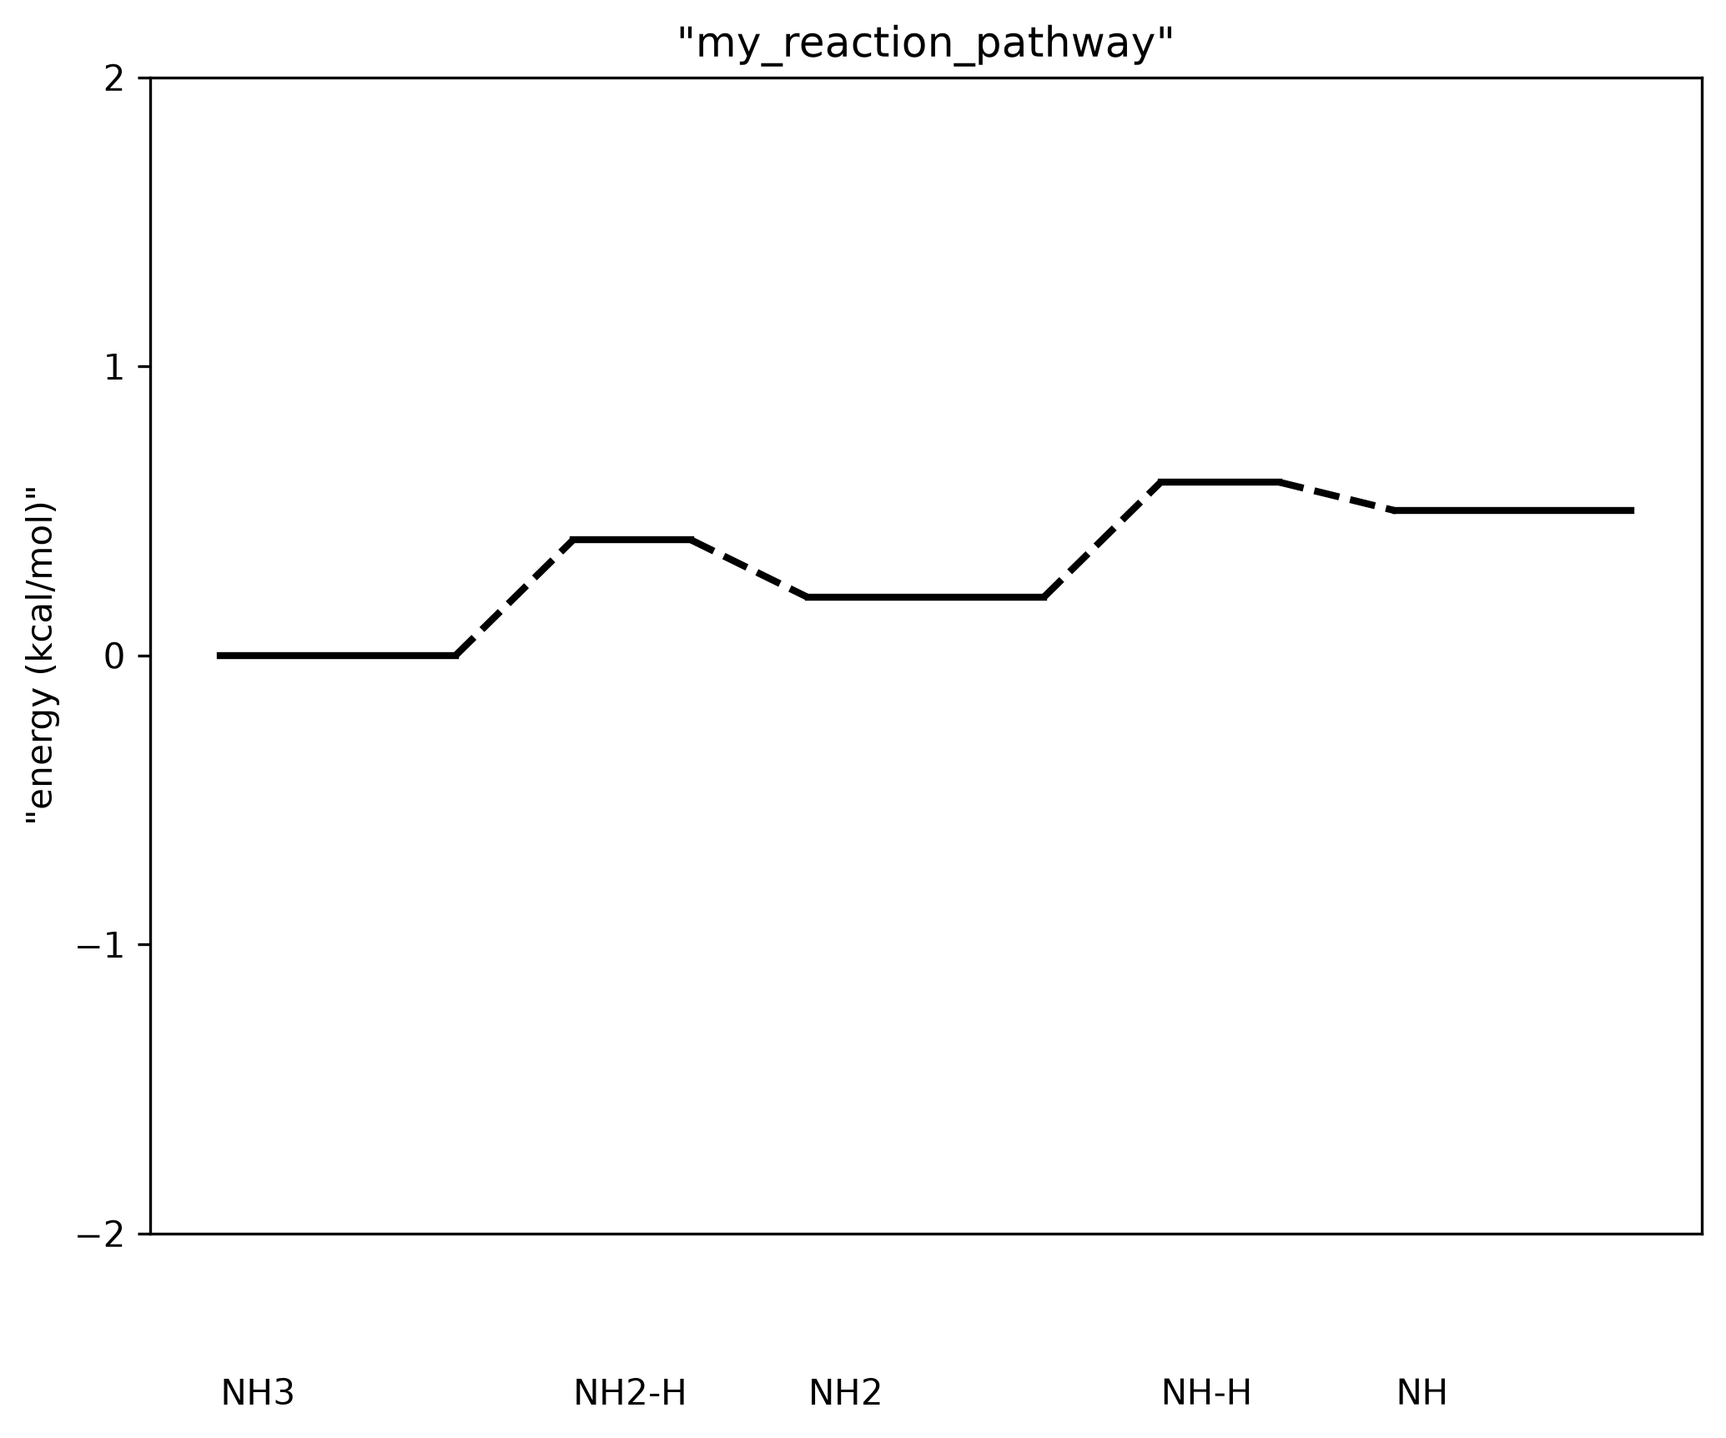
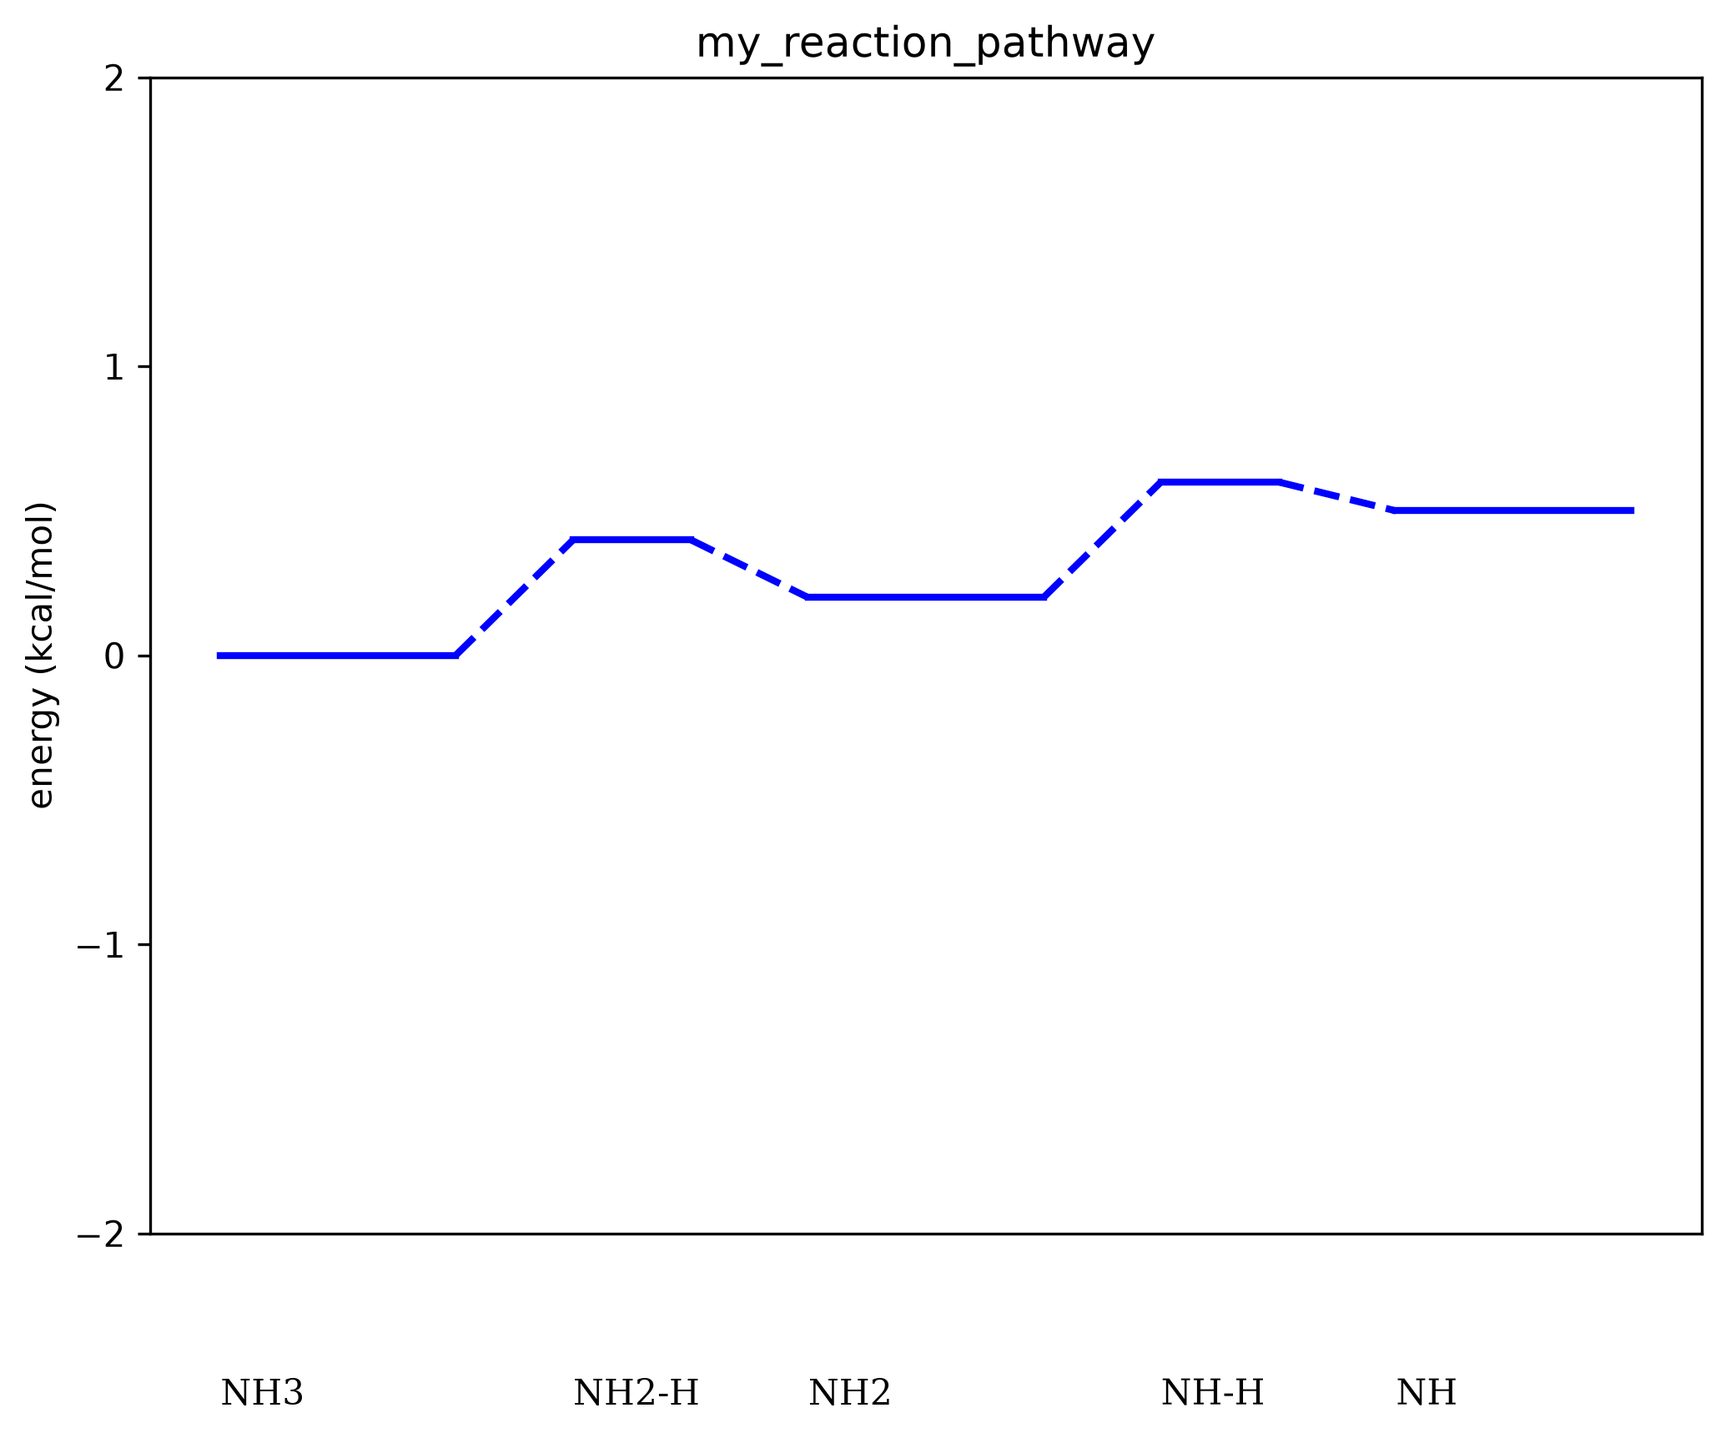
wip: fixing bugs in other functions

diff --git a/build/lib/plot/pathway_plotter.py b/build/lib/plot/pathway_plotter.py
@@ -13,8 +13,8 @@ the following styles for the figure:
     interval: the interval of the ticks in the ordinate direction
 
 the following styles for the lines:
-    line_color: the color of the lines
-    line_width: the width of the lines
+    line_colors: the color of the lines
+    line_widths: the width of the lines
 
 the following styles for texts:
     text_font: the font of the texts
@@ -46,7 +46,7 @@ def pathway_plotter(line_data: dict,
 
 #   ---- Plot Styles ----
     # starting by creating the figure and axes
-    fig, ax = plt.subplots(figsize=(figure_styles['plot_dimension'][0], figure_styles['plot_dimension'][1]))
+    fig, ax = plt.subplots(figsize=(figure_styles['plot_size'][0], figure_styles['plot_size'][1]))
     # to set the range of the figure in the ordinate direction
     ax.set_ylim(figure_styles['plot_range'][0], figure_styles['plot_range'][1])
     # set the interval of the ticks in the ordinate direction to the nearest integer of the interval specified in the figure_styles
@@ -60,15 +60,18 @@ def pathway_plotter(line_data: dict,
 
 #   ---- Text Styles ----
     # set the texts as taht in text_styles['text_font'] and text_styles['general_text_size']
-    plt.rcParams['font.family'] = text_styles['text_font']
-    plt.rcParams['font.size'] = text_styles['general_text_size']
+    
+    
 
 #   ---- Texts ----
     # set the ordinate label, abscissa label, and title as specified in texts
+    labelpad=text_styles['abscissa_label_ordinate']
     if texts['ordinate_label'] is not None:
-        ax.set_ylabel(texts['ordinate_label'], fontsize=text_styles['axis_text_size'])
+        ax.set_ylabel(texts['ordinate_label'], 
+                      fontsize=text_styles['axis_text_size'])
     if texts['abscissa_label'] is not None:
-        ax.set_xlabel(texts['abscissa_label'], fontsize=text_styles['axis_text_size'], labelpad=text_styles['abscissa_label_ordinate'])
+        ax.set_xlabel(texts['abscissa_label'], 
+                      fontsize=text_styles['axis_text_size'])
     if texts['title'] is not None:
         ax.set_title(texts['title'], fontsize=text_styles['title_text_size'])
 
@@ -78,27 +81,42 @@ def pathway_plotter(line_data: dict,
     #with the line_width and line_color specified in line_styles
 
     # but before that, the line_color needs to be have the same length as the number of entries in line_data['coordinates']
-    if line_styles['color'] is None:
-        line_styles['color'] = ['black'] * len(line_data['coordinates'])
-    if len(line_styles['color']) != len(line_data['coordinates']):
+    if line_styles['line_colors'] is None:
+        line_styles['line_colors'] = ['black'] * len(line_data['coordinates'])
+    if len(line_styles['line_colors']) != len(line_data['coordinates']):
         # repeat the colors until it has the same length as the number of entries in line_data['coordinates']
-        line_styles['color'] = (line_styles['color'] * (len(line_data['coordinates']) // len(line_styles['color']) + 1))[:len(line_data['coordinates'])]
-
+        line_styles['line_colors'] = (line_styles['line_colors'] * \
+                                    (len(line_data['coordinates']) // len(line_styles['line_colors']) + 1))\
+                                        [:len(line_data['coordinates'])]
+        
+    if len(line_styles['line_widths']) != len(line_data['coordinates']):
+        # repeat the width until it has the same length as the number of entries in line_data['coordinates']
+        line_styles['line_widths'] = (line_styles['line_widths'] * \
+                                    (len(line_data['coordinates']) // len(line_styles['line_widths']) + 1))\
+                                        [:len(line_data['coordinates'])]
+        
     #within plotting the lines, first plot the energies for local minima and transition states as solid lines
     for i, coord_lines in enumerate(line_data['coordinates']):
         # if you go to the plot_data_generator, you will see that the coord_lines is a list of lists, where each list contains the coordinates of a line segment.
         for line_segment in coord_lines:
-            print(f"Plotting line segment: {line_segment} with color: {line_styles['color'][i]} and width: {line_styles['width']}")
+            #print(f"Plotting line segment: {line_segment} with color: {line_styles['line_colors'][i]} and width: {line_styles['line_widths'][i]}")
             x_to_plot = [ line_segment[0][0], line_segment[1][0] ]
             y_to_plot = [ line_segment[0][1], line_segment[1][1] ]
-            ax.plot(x_to_plot, y_to_plot, color=line_styles['color'][i], linewidth=line_styles['width'])
+            ax.plot(x_to_plot, 
+                    y_to_plot, 
+                    color=line_styles['line_colors'][i], 
+                    linewidth=line_styles['line_widths'][i])
 
     #then plot the dash lines for the connecting lines
     for i, connecting_lines in enumerate(line_data['connecting_coordinates']):
         for line_segment in connecting_lines:
             x_to_plot = [ line_segment[0][0], line_segment[1][0] ]
             y_to_plot = [ line_segment[0][1], line_segment[1][1] ]
-            ax.plot(x_to_plot, y_to_plot, color=line_styles['color'][i], linewidth=line_styles['width'], linestyle='dashed')
+            ax.plot(x_to_plot, 
+                    y_to_plot, 
+                    color=line_styles['line_colors'][i], 
+                    linewidth=line_styles['line_widths'][i], 
+                    linestyle='dashed')
 
 #   ---- Species Names Plotting ----
     #next, loop over each string in line_data['species_names'] and plot the species
@@ -108,6 +126,7 @@ def pathway_plotter(line_data: dict,
         ax.text(line_data['abscissa_starting_points'][i],
                 text_styles['species_text_ordinate'] + figure_styles['plot_range'][0],
                 species_names,
+                fontfamily=text_styles['text_font'],
                 fontsize=text_styles['species_text_size'],
                 rotation=data_display_styles['species_tilt_angle'],
                 ha='left',

diff --git a/src/plot/pathway_plotter.py b/src/plot/pathway_plotter.py
@@ -13,8 +13,8 @@ the following styles for the figure:
     interval: the interval of the ticks in the ordinate direction
 
 the following styles for the lines:
-    line_color: the color of the lines
-    line_width: the width of the lines
+    line_colors: the color of the lines
+    line_widths: the width of the lines
 
 the following styles for texts:
     text_font: the font of the texts
@@ -46,7 +46,7 @@ def pathway_plotter(line_data: dict,
 
 #   ---- Plot Styles ----
     # starting by creating the figure and axes
-    fig, ax = plt.subplots(figsize=(figure_styles['plot_dimension'][0], figure_styles['plot_dimension'][1]))
+    fig, ax = plt.subplots(figsize=(figure_styles['plot_size'][0], figure_styles['plot_size'][1]))
     # to set the range of the figure in the ordinate direction
     ax.set_ylim(figure_styles['plot_range'][0], figure_styles['plot_range'][1])
     # set the interval of the ticks in the ordinate direction to the nearest integer of the interval specified in the figure_styles
@@ -60,15 +60,18 @@ def pathway_plotter(line_data: dict,
 
 #   ---- Text Styles ----
     # set the texts as taht in text_styles['text_font'] and text_styles['general_text_size']
-    plt.rcParams['font.family'] = text_styles['text_font']
-    plt.rcParams['font.size'] = text_styles['general_text_size']
+    
+    
 
 #   ---- Texts ----
     # set the ordinate label, abscissa label, and title as specified in texts
+    labelpad=text_styles['abscissa_label_ordinate']
     if texts['ordinate_label'] is not None:
-        ax.set_ylabel(texts['ordinate_label'], fontsize=text_styles['axis_text_size'])
+        ax.set_ylabel(texts['ordinate_label'], 
+                      fontsize=text_styles['axis_text_size'])
     if texts['abscissa_label'] is not None:
-        ax.set_xlabel(texts['abscissa_label'], fontsize=text_styles['axis_text_size'], labelpad=text_styles['abscissa_label_ordinate'])
+        ax.set_xlabel(texts['abscissa_label'], 
+                      fontsize=text_styles['axis_text_size'])
     if texts['title'] is not None:
         ax.set_title(texts['title'], fontsize=text_styles['title_text_size'])
 
@@ -78,27 +81,42 @@ def pathway_plotter(line_data: dict,
     #with the line_width and line_color specified in line_styles
 
     # but before that, the line_color needs to be have the same length as the number of entries in line_data['coordinates']
-    if line_styles['color'] is None:
-        line_styles['color'] = ['black'] * len(line_data['coordinates'])
-    if len(line_styles['color']) != len(line_data['coordinates']):
+    if line_styles['line_colors'] is None:
+        line_styles['line_colors'] = ['black'] * len(line_data['coordinates'])
+    if len(line_styles['line_colors']) != len(line_data['coordinates']):
         # repeat the colors until it has the same length as the number of entries in line_data['coordinates']
-        line_styles['color'] = (line_styles['color'] * (len(line_data['coordinates']) // len(line_styles['color']) + 1))[:len(line_data['coordinates'])]
-
+        line_styles['line_colors'] = (line_styles['line_colors'] * \
+                                    (len(line_data['coordinates']) // len(line_styles['line_colors']) + 1))\
+                                        [:len(line_data['coordinates'])]
+        
+    if len(line_styles['line_widths']) != len(line_data['coordinates']):
+        # repeat the width until it has the same length as the number of entries in line_data['coordinates']
+        line_styles['line_widths'] = (line_styles['line_widths'] * \
+                                    (len(line_data['coordinates']) // len(line_styles['line_widths']) + 1))\
+                                        [:len(line_data['coordinates'])]
+        
     #within plotting the lines, first plot the energies for local minima and transition states as solid lines
     for i, coord_lines in enumerate(line_data['coordinates']):
         # if you go to the plot_data_generator, you will see that the coord_lines is a list of lists, where each list contains the coordinates of a line segment.
         for line_segment in coord_lines:
-            print(f"Plotting line segment: {line_segment} with color: {line_styles['color'][i]} and width: {line_styles['width']}")
+            #print(f"Plotting line segment: {line_segment} with color: {line_styles['line_colors'][i]} and width: {line_styles['line_widths'][i]}")
             x_to_plot = [ line_segment[0][0], line_segment[1][0] ]
             y_to_plot = [ line_segment[0][1], line_segment[1][1] ]
-            ax.plot(x_to_plot, y_to_plot, color=line_styles['color'][i], linewidth=line_styles['width'])
+            ax.plot(x_to_plot, 
+                    y_to_plot, 
+                    color=line_styles['line_colors'][i], 
+                    linewidth=line_styles['line_widths'][i])
 
     #then plot the dash lines for the connecting lines
     for i, connecting_lines in enumerate(line_data['connecting_coordinates']):
         for line_segment in connecting_lines:
             x_to_plot = [ line_segment[0][0], line_segment[1][0] ]
             y_to_plot = [ line_segment[0][1], line_segment[1][1] ]
-            ax.plot(x_to_plot, y_to_plot, color=line_styles['color'][i], linewidth=line_styles['width'], linestyle='dashed')
+            ax.plot(x_to_plot, 
+                    y_to_plot, 
+                    color=line_styles['line_colors'][i], 
+                    linewidth=line_styles['line_widths'][i], 
+                    linestyle='dashed')
 
 #   ---- Species Names Plotting ----
     #next, loop over each string in line_data['species_names'] and plot the species
@@ -108,6 +126,7 @@ def pathway_plotter(line_data: dict,
         ax.text(line_data['abscissa_starting_points'][i],
                 text_styles['species_text_ordinate'] + figure_styles['plot_range'][0],
                 species_names,
+                fontfamily=text_styles['text_font'],
                 fontsize=text_styles['species_text_size'],
                 rotation=data_display_styles['species_tilt_angle'],
                 ha='left',

diff --git a/build/lib/figure_details/figure_styles.py b/build/lib/figure_details/figure_styles.py
@@ -3,7 +3,7 @@ This is a class for the parameters of styles in the plot for reaction pathways.
 """
 
 key_with_str_list = ['line_colors']
-key_with_positive_float_values = ['line_widths',
+key_with_positive_float_values = [
                                   'interval',
                                   'general_text_size',
                                   'title_text_size',
@@ -14,15 +14,18 @@ key_with_positive_float_values = ['line_widths',
                                   'line_separation', 
                                   'species_tilt_angle',
                                   'species_text_ordinate',
-                                  'abscissa_label_ordinate',]
+                                  'abscissa_label_ordinate'
+                                  ]
 key_with_bool_values = ['show_all_borders']
 key_with_str_values = ['text_font']
-key_with_float_list_values = ['plot_size', 
-                              'plot_range']
+key_with_float_list_values = [ 'line_widths'
+                               'plot_size', 
+                               'plot_range' ]
 
-line_style_keys = ['color', 'width']
+line_style_keys = ['line_colors', 
+                    'line_widths']
 figure_style_keys = ['show_all_borders', 
-                     'plot_dimension', 
+                     'plot_size', 
                      'plot_range', 
                      'interval']
 text_styles_keys = ['general_text_size', 
@@ -39,7 +42,7 @@ class Styles:
     def __init__(self,
                 # --- line styles ---
                  line_colors: list[str]=['black'],
-                 line_widths: float=2.0,
+                 line_widths: list[float] = [2.0],
                 # --- figure styles ---
                  show_all_borders: bool=True,
                  plot_size: list[float]=[8.0, 6.0],
@@ -68,11 +71,11 @@ class Styles:
 
 
 
-        self.line_styles['color'] = line_colors
-        self.line_styles['width'] = line_widths
+        self.line_styles['line_colors'] = line_colors
+        self.line_styles['line_widths'] = line_widths
 
         self.figure_styles['show_all_borders'] = show_all_borders
-        self.figure_styles['plot_dimension'] = plot_size
+        self.figure_styles['plot_size'] = plot_size
         self.figure_styles['plot_range'] = plot_range
         self.figure_styles['interval'] = interval
 
@@ -89,7 +92,7 @@ class Styles:
         self.data_display_styles['separation'] = line_separation
         self.data_display_styles['species_tilt_angle'] = species_tilt_angle
 
-    def __setattr__(self, name, value):
+    def set_value(self, name, value):
         if name in key_with_bool_values:
             try:
                 converted_value = bool(value)
@@ -116,6 +119,13 @@ class Styles:
                 converted_value = [float(v) for v in value]
             else:
                 raise ValueError(f"Invalid value for {name}: {value}. Expected a string or a list of floats.")
+        elif name in key_with_str_values:
+            print(f"value before conversion: {value}")
+            converted_value = value
+            print(f"value after conversion: {converted_value}")
+        else:
+            print(f"current name: {name}")
+            raise f"Invalid key: {name}"
 
         if name in line_style_keys:
             self.line_styles[name] = converted_value

diff --git a/src/figure_details/figure_styles.py b/src/figure_details/figure_styles.py
@@ -3,7 +3,7 @@ This is a class for the parameters of styles in the plot for reaction pathways.
 """
 
 key_with_str_list = ['line_colors']
-key_with_positive_float_values = ['line_widths',
+key_with_positive_float_values = [
                                   'interval',
                                   'general_text_size',
                                   'title_text_size',
@@ -14,15 +14,18 @@ key_with_positive_float_values = ['line_widths',
                                   'line_separation', 
                                   'species_tilt_angle',
                                   'species_text_ordinate',
-                                  'abscissa_label_ordinate',]
+                                  'abscissa_label_ordinate'
+                                  ]
 key_with_bool_values = ['show_all_borders']
 key_with_str_values = ['text_font']
-key_with_float_list_values = ['plot_size', 
-                              'plot_range']
+key_with_float_list_values = [ 'line_widths'
+                               'plot_size', 
+                               'plot_range' ]
 
-line_style_keys = ['color', 'width']
+line_style_keys = ['line_colors', 
+                    'line_widths']
 figure_style_keys = ['show_all_borders', 
-                     'plot_dimension', 
+                     'plot_size', 
                      'plot_range', 
                      'interval']
 text_styles_keys = ['general_text_size', 
@@ -39,7 +42,7 @@ class Styles:
     def __init__(self,
                 # --- line styles ---
                  line_colors: list[str]=['black'],
-                 line_widths: float=2.0,
+                 line_widths: list[float] = [2.0],
                 # --- figure styles ---
                  show_all_borders: bool=True,
                  plot_size: list[float]=[8.0, 6.0],
@@ -68,11 +71,11 @@ class Styles:
 
 
 
-        self.line_styles['color'] = line_colors
-        self.line_styles['width'] = line_widths
+        self.line_styles['line_colors'] = line_colors
+        self.line_styles['line_widths'] = line_widths
 
         self.figure_styles['show_all_borders'] = show_all_borders
-        self.figure_styles['plot_dimension'] = plot_size
+        self.figure_styles['plot_size'] = plot_size
         self.figure_styles['plot_range'] = plot_range
         self.figure_styles['interval'] = interval
 
@@ -89,7 +92,7 @@ class Styles:
         self.data_display_styles['separation'] = line_separation
         self.data_display_styles['species_tilt_angle'] = species_tilt_angle
 
-    def __setattr__(self, name, value):
+    def set_value(self, name, value):
         if name in key_with_bool_values:
             try:
                 converted_value = bool(value)
@@ -116,6 +119,13 @@ class Styles:
                 converted_value = [float(v) for v in value]
             else:
                 raise ValueError(f"Invalid value for {name}: {value}. Expected a string or a list of floats.")
+        elif name in key_with_str_values:
+            print(f"value before conversion: {value}")
+            converted_value = value
+            print(f"value after conversion: {converted_value}")
+        else:
+            print(f"current name: {name}")
+            raise f"Invalid key: {name}"
 
         if name in line_style_keys:
             self.line_styles[name] = converted_value

diff --git a/src/input/input_reader.py b/src/input/input_reader.py
@@ -36,6 +36,7 @@ def input_reader(input_file_path):
         'abscissa_label': None,
         'title': None
     }
+
     with open(input_file_path, 'r') as file:
         for line in file:
             line = line.strip()
